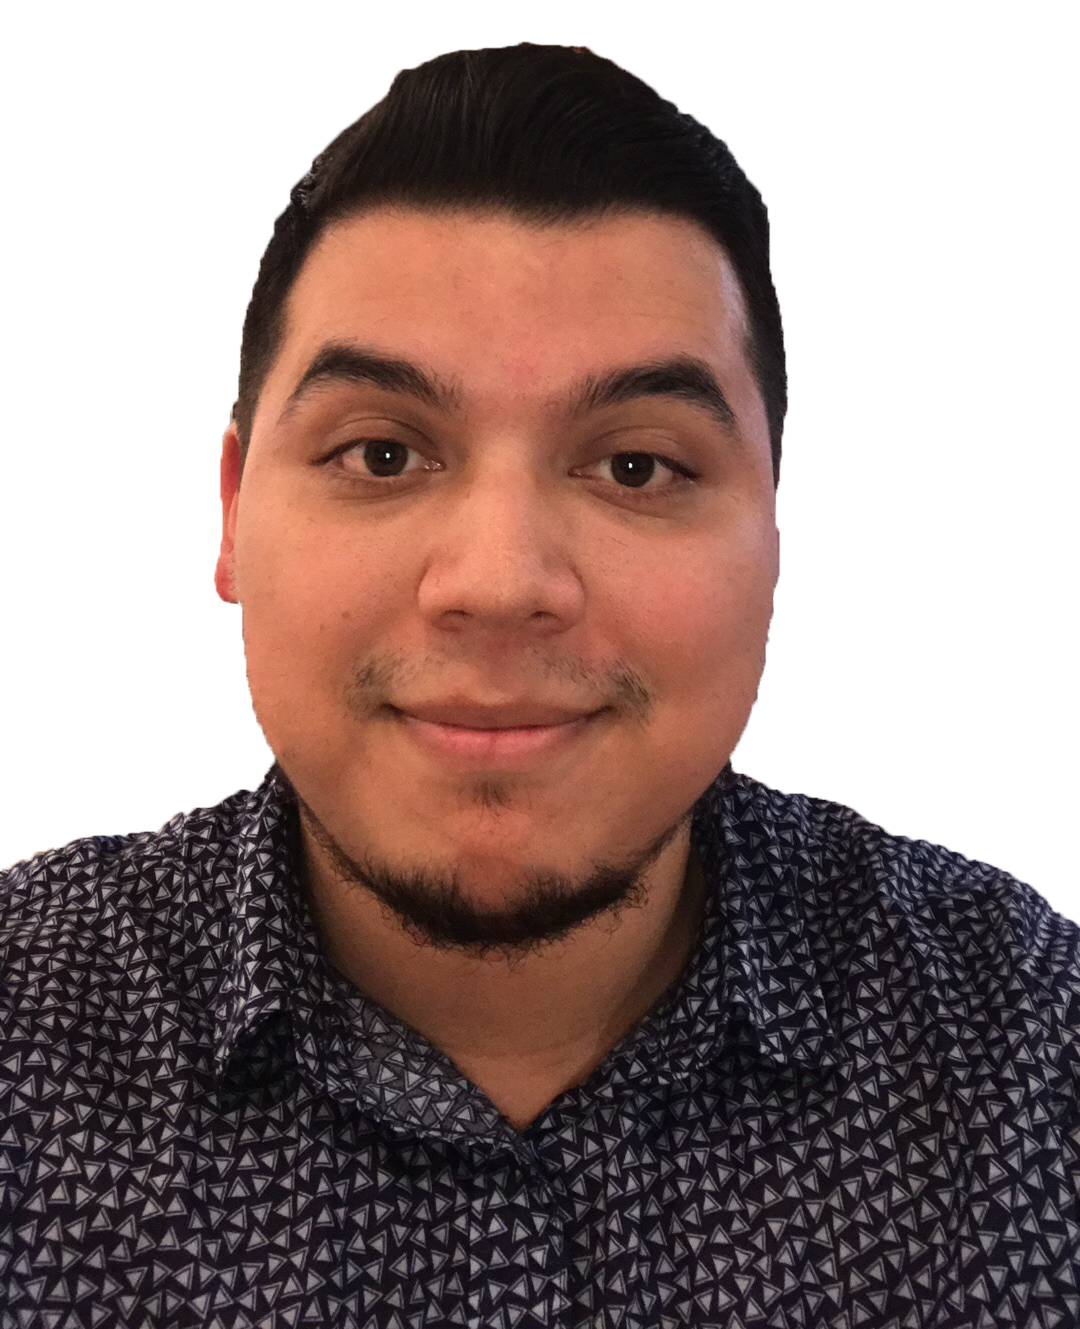
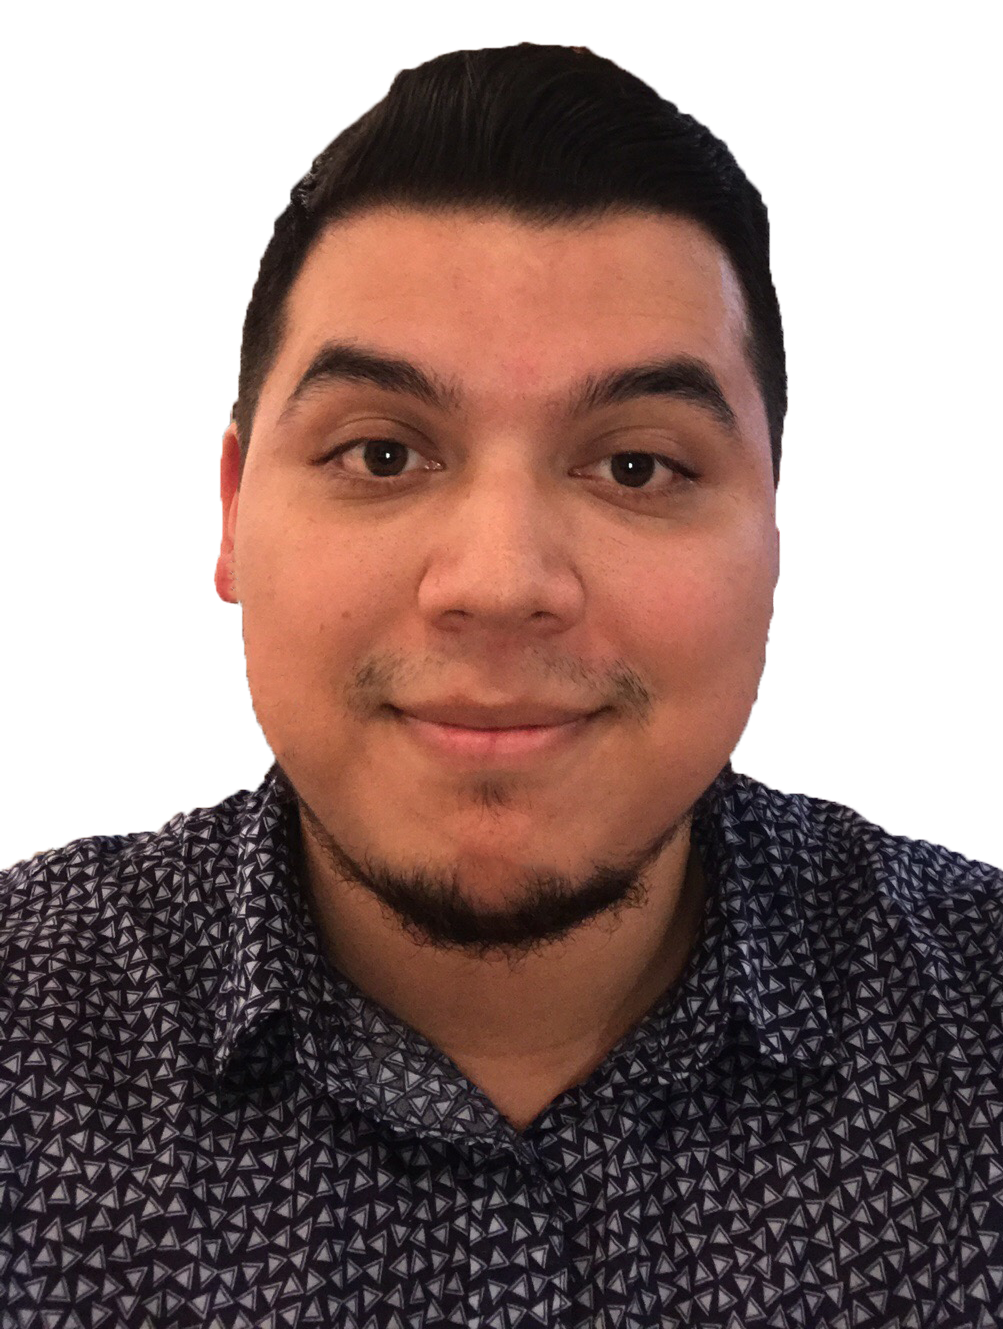
Finished about, working on contact

diff --git a/index.html b/index.html
@@ -4,7 +4,7 @@
     <meta charset="UTF-8">
     <meta name="viewport" content="width=device-width, initial-scale=1.0">
     <meta http-equiv="X-UA-Compatible" content="ie=edge">
-    <title>DevRobert - Software Engineer</title>
+    <title>Robert Perez - Software Engineer</title>
     <link rel="stylesheet" href="./css/styles.css">
 </head>
 <body>
@@ -39,15 +39,17 @@
                 <span class="main__title--block">that matter.</span>
             </h2>
             <div class="container main__container">
-                <a href="#ABOUT" class="button main__button">Get to know me</a>
+                <a href="#about" class="button main__button">Get to know me</a>
             </div>
         </main>
         <section class="section about">
             <div class="container">
-                <h2 class="about__title" id="ABOUT">About</h2>
+                <h2 class="about__title title" id="about">About</h2>
             </div>
             <div class="about__content">
-                <img src="./img/me.png" alt="Robert Perez" class="about__picture">
+                <div class="about__pictureBox">
+                    <img src="./img/me.png" alt="Robert Perez" class="about__picture">
+                </div>
                 <div>
                 <p class="about__text text">My name is Robert Perez, im a software engineer from Santa Barbara county.
                     I've been in the development world for about 3 years now using various types of skills. 
@@ -63,9 +65,14 @@
             </div>
             </div>
         </section>
-        <section class="section"></section>
-        <section class="section"></section>
-        <section class="section"></section>
+        <section class="section projects">
+            <div class="container">
+                <h2 class="about__title title" id="projects">Projects</h2>
+            </div>
+        </section>
+        <section class="section contact">
+            <h2 class="about__title title" id="ABOUT">Contact</h2>
+        </section>
     </section>
     <script src="./js/main.js"></script>
     <!-- <div>Icons made by <a href="https://www.flaticon.com/authors/gregor-cresnar" 

diff --git a/css/styles.css b/css/styles.css
@@ -18,6 +18,13 @@ html {
   scroll-behavior: smooth;
 }
 
+.title {
+  color: #fff;
+  font-size: 2.8em;
+  -ms-flex-item-align: end;
+      align-self: flex-end;
+}
+
 .section {
   width: 100%;
   height: auto;
@@ -25,6 +32,12 @@ html {
 
 .container {
   width: 100%;
+  background: #00adff;
+  height: 100px;
+  display: -webkit-box;
+  display: -ms-flexbox;
+  display: flex;
+  padding-left: 25px;
 }
 
 .separator {
@@ -146,6 +159,8 @@ html {
 
 .main__container {
   margin: 10% auto;
+  background: #424a57;
+  height: auto;
 }
 
 .main__button {
@@ -182,7 +197,6 @@ html {
 }
 
 .about .container {
-  background: #00adff;
   height: 100px;
   width: 100%;
   display: -webkit-box;
@@ -213,6 +227,12 @@ html {
   font-size: 2.8em;
   -ms-flex-item-align: end;
       align-self: flex-end;
+}
+
+.about__pictureBox {
+  background: #424a57;
+  background: -webkit-gradient(linear, left bottom, left top, from(#424a57), color-stop(50%, rgba(66, 74, 87, 0)));
+  background: linear-gradient(0deg, #424a57 0%, rgba(66, 74, 87, 0) 50%);
 }
 
 .about__picture {

diff --git a/css/styles.scss b/css/styles.scss
@@ -23,6 +23,11 @@ html {
     scroll-behavior:smooth
 }
 
+.title {
+    color: #fff;
+    font-size: 2.8em;
+    align-self: flex-end;
+}
 .section {
     width: 100%;
     height: auto;
@@ -30,6 +35,10 @@ html {
 
 .container {
     width: 100%;
+    background: $highlightcolor;
+    height: 100px;
+    display: flex;
+    padding-left: 25px;
 }
 
 .separator {
@@ -133,6 +142,8 @@ html {
     }
     &__container {
         margin: 10% auto;
+        background: $primary-color;
+        height: auto;
     }
     &__button {
         color: #fff;
@@ -162,7 +173,6 @@ html {
     background-color: $primary-color;
 
     .container {
-        background: $highlightcolor;
         height: 100px;
         width: 100%;
         display: flex;
@@ -179,6 +189,11 @@ html {
         color: #fff;
         font-size: 2.8em;
         align-self: flex-end;
+    }
+    &__pictureBox {
+        background: rgb(66,74,87);
+        background: linear-gradient(0deg, rgba(66,74,87,1) 0%, rgba(66,74,87,0) 50%);
+
     }
     &__picture {
         width: 300px;
